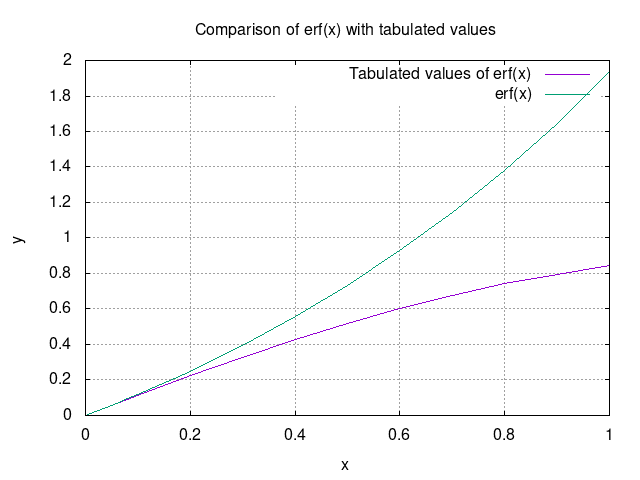
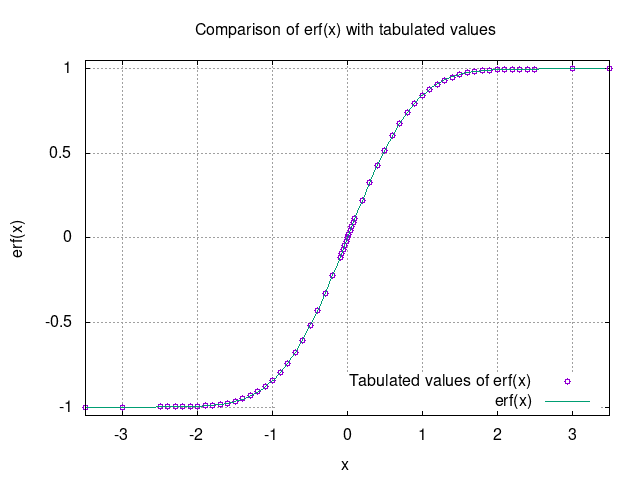
fixed error in interval -1 to 1 of erf and added acc convergence plot

diff --git a/Homework/Quad/main.cs b/Homework/Quad/main.cs
@@ -19,13 +19,13 @@ class Program{
 			else return integrate(f,a,(a+b)/2,acc/Sqrt(2),eps,f1,f2)+
             		integrate(f,(a+b)/2,b,acc/Sqrt(2),eps,f3,f4);
 		}
-	static double erf(double z){
-		Func<double,double> exp = x=> Exp(x);
+	static double erf(double z, double acc = 0.001 , double eps = 0.001){
+		Func<double,double> exp = x=> Exp(-x*x);
 		Func<double,double> expvar = x => Exp(-Pow((z+(1-x)/x),2))/x/x;
 		if(z<0) return -erf(-z);
 		else{
-			if(Abs(z)<=1) return 2/Sqrt(PI)*integrate(exp,0,z,0.00001,0.00001);
-			if(z>1) return 1-2/Sqrt(PI)*integrate(expvar,0,1,0.00001,0.00001);
+			if(Abs(z)<=1) return 2.0/Sqrt(PI)*integrate(exp,0,z,acc,eps);
+			if(z>1) return 1.0-2.0/Sqrt(PI)*integrate(expvar,0,1,acc,eps);
 			}
 		return double.NaN;
 		}
@@ -40,17 +40,27 @@ class Program{
  		WriteLine($"∫ dx 1/√(x) = {integrate(recipsqrt,0,1)} is within accuracy limits of 2? {matrix.approx(2,integrate(recipsqrt,0,1),0.001,0.001)}\n");
 		WriteLine($"∫ dx √(1-x²) = {integrate(trigstuff,0,1)} is within accuracy limits of π/2? {matrix.approx(PI/2,integrate(trigstuff,0,1),0.001,0.001)}\n");
 		WriteLine($"∫ dx ln(x)/√(x) = {integrate(lnsqrt,0,1)} is within accuracy limits of -4? {matrix.approx(-4,integrate(lnsqrt,0,1),0.001,0.001)}\n");
-		double[] tabvalx = {0,0.02,0.04,0.06,0.08,0.1,0.2,0.3,0.4,0.5,0.6,0.7,0.8,0.9,1};
-		double[] tabvaly = {0,0.022564575,0.045111106,0.067621594,0.090078126,0.112462916,0.222702589,0.328626759,0.428392355,0.520499878,0.603856091,0.677801194,0.742100965,0.796908212,0.842700793};
 		using (StreamWriter writer = new StreamWriter("Vals1.dat")){
-                writer.WriteLine("# x1 y1 y2");
-               	for(int i=0;i<tabvalx.Length;i++){
-			double x1 = tabvalx[i];
-                      	double y1 = tabvaly[i];
-			double y2 = erf(x1);
-                        writer.WriteLine($"{x1} {y1} {y2}");
+                writer.WriteLine("# x1 y1");
+		double xinterval = 3.5-(-3.5);
+		int npoints = 100;
+               	for(int i=0;i<npoints;i++){
+			double x1 = -3.5+xinterval/100*i;
+			double y1 = erf(x1);
+                        writer.WriteLine($"{x1} {y1}");
                         }
 		}
+                using (StreamWriter writer = new StreamWriter("Vals2.dat")){
+                writer.WriteLine("# x1 y1");
+                int npoints = 10;
+		double startacc = 0.1;
+                for(int i=1;i<npoints;i++){
+			double x1 = Pow(startacc,i);
+                        double apxval = erf(1,x1,0);
+			double y1 = Abs(0.84270079294971486934-apxval);
+                        writer.WriteLine($"{x1} {y1}");
+                        }
+                }
 		return 0;
 	}//main
 }//Program
